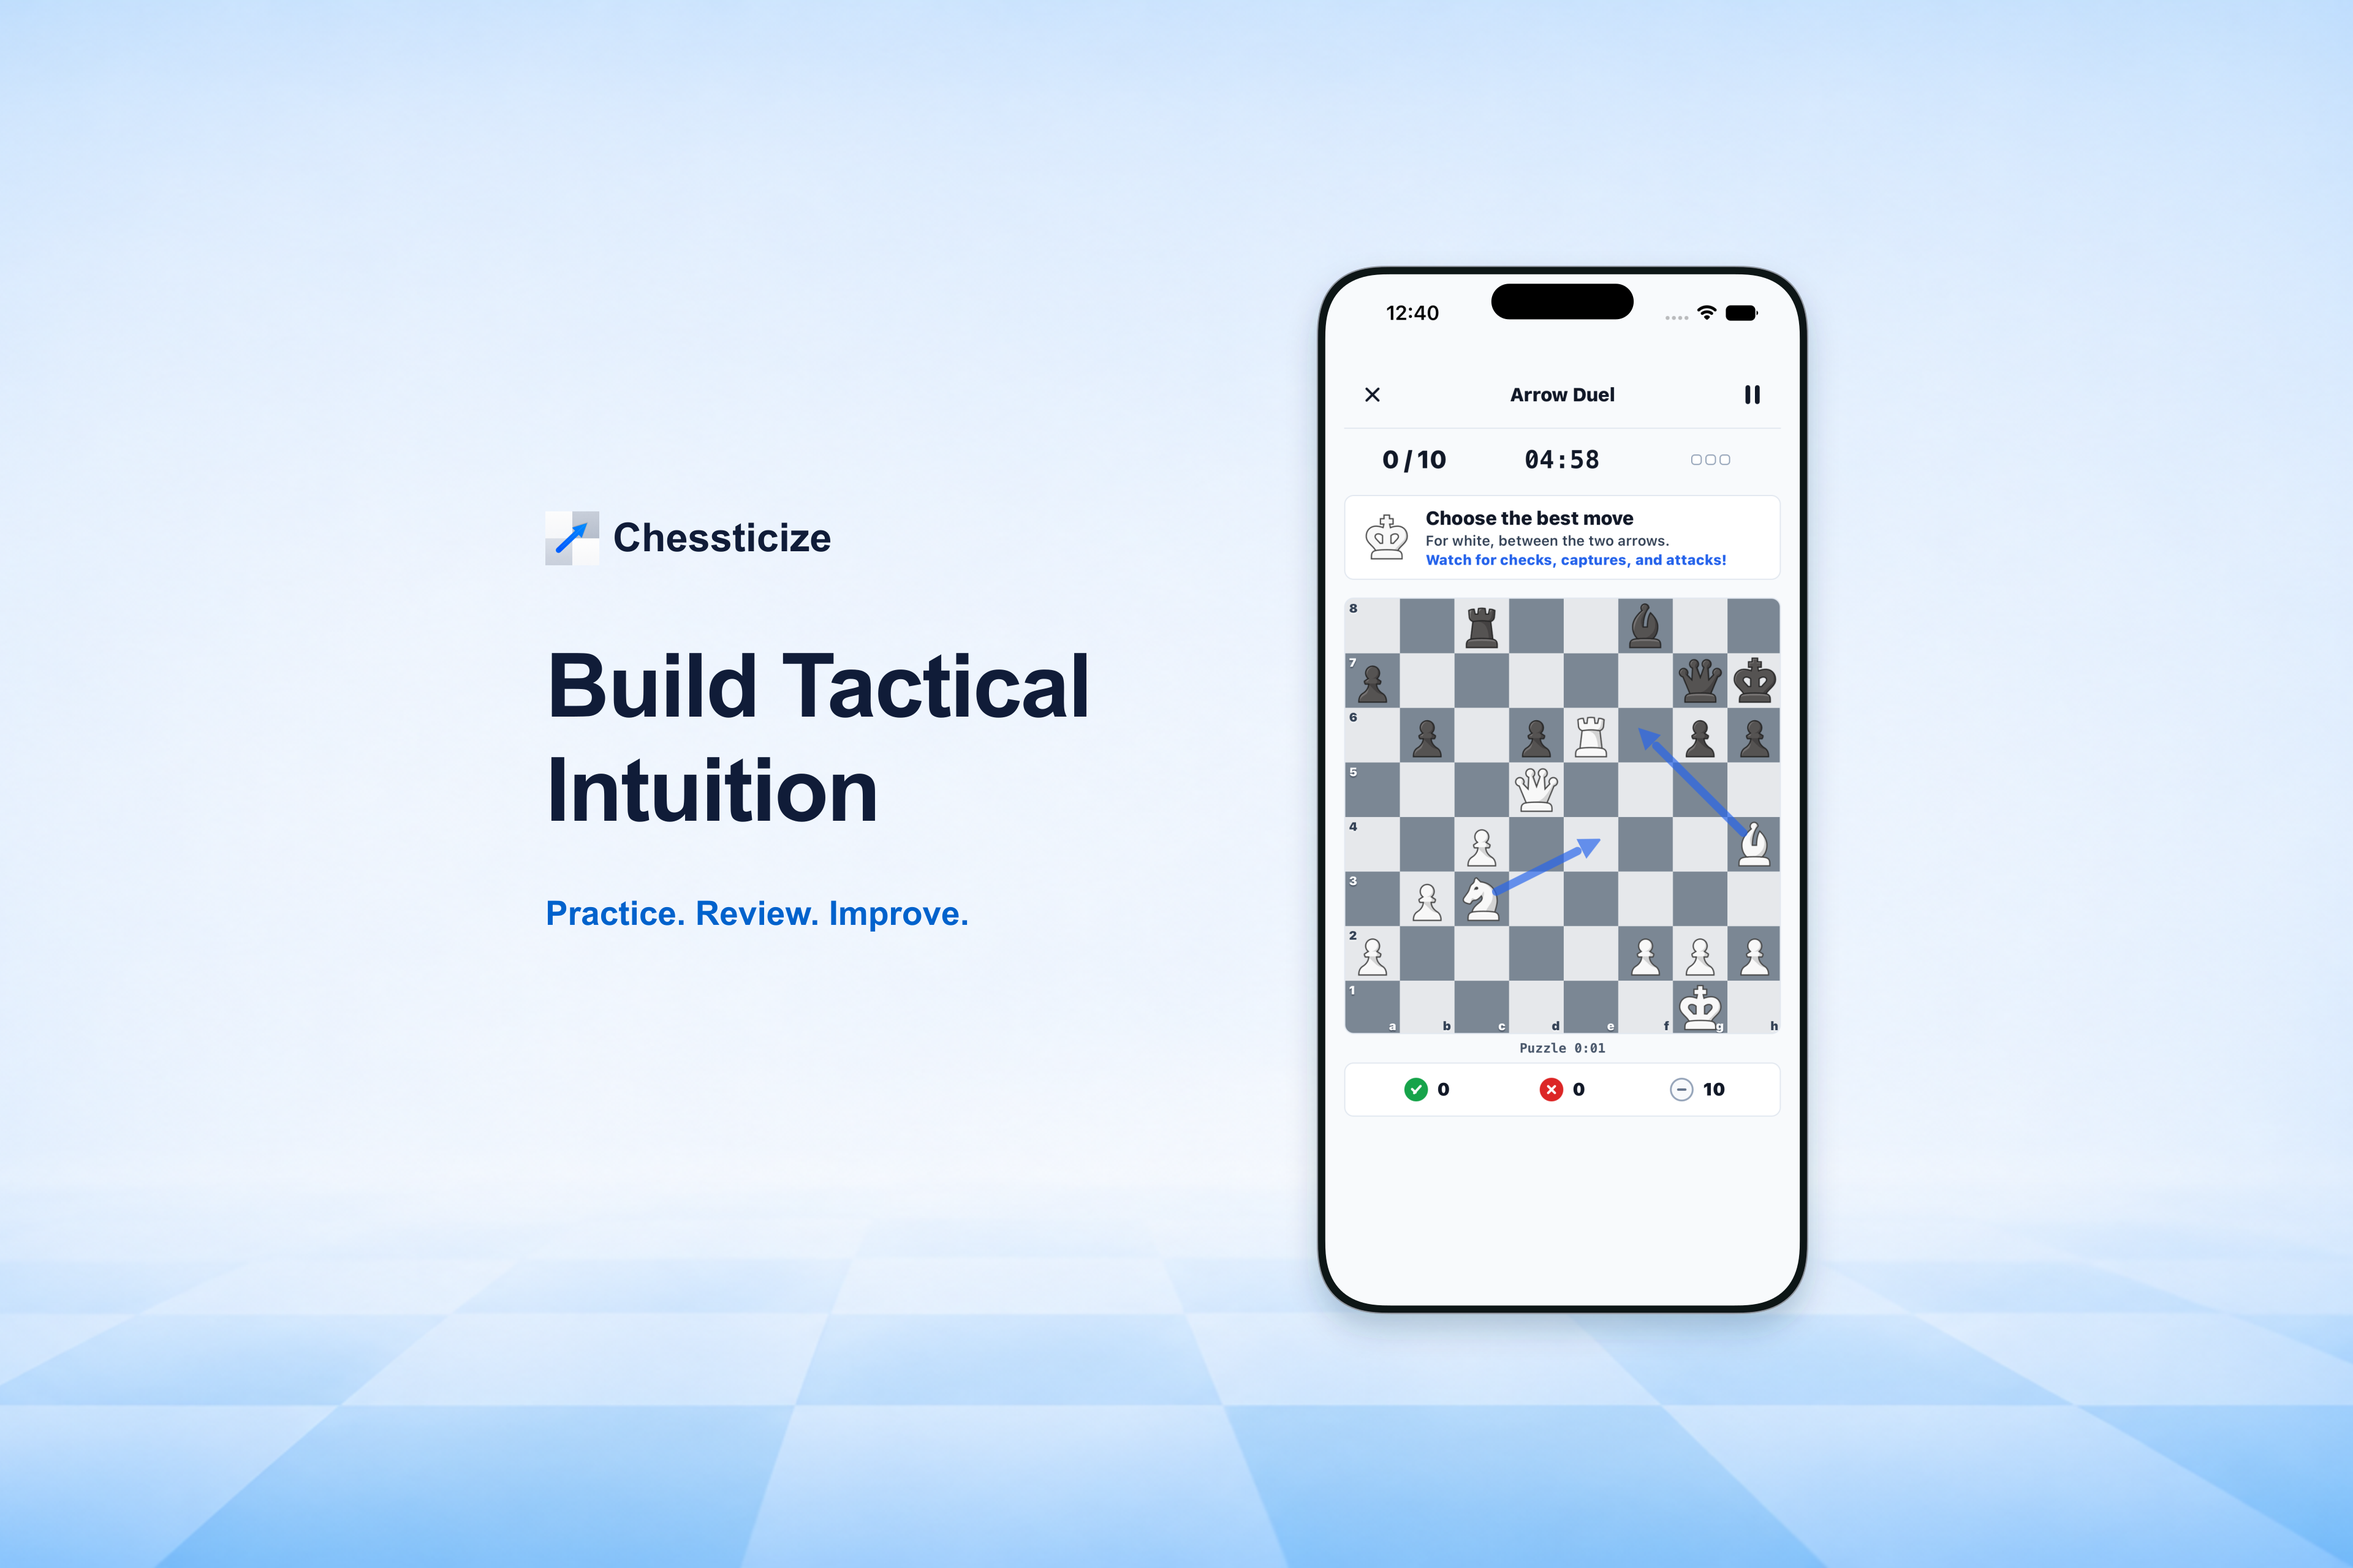
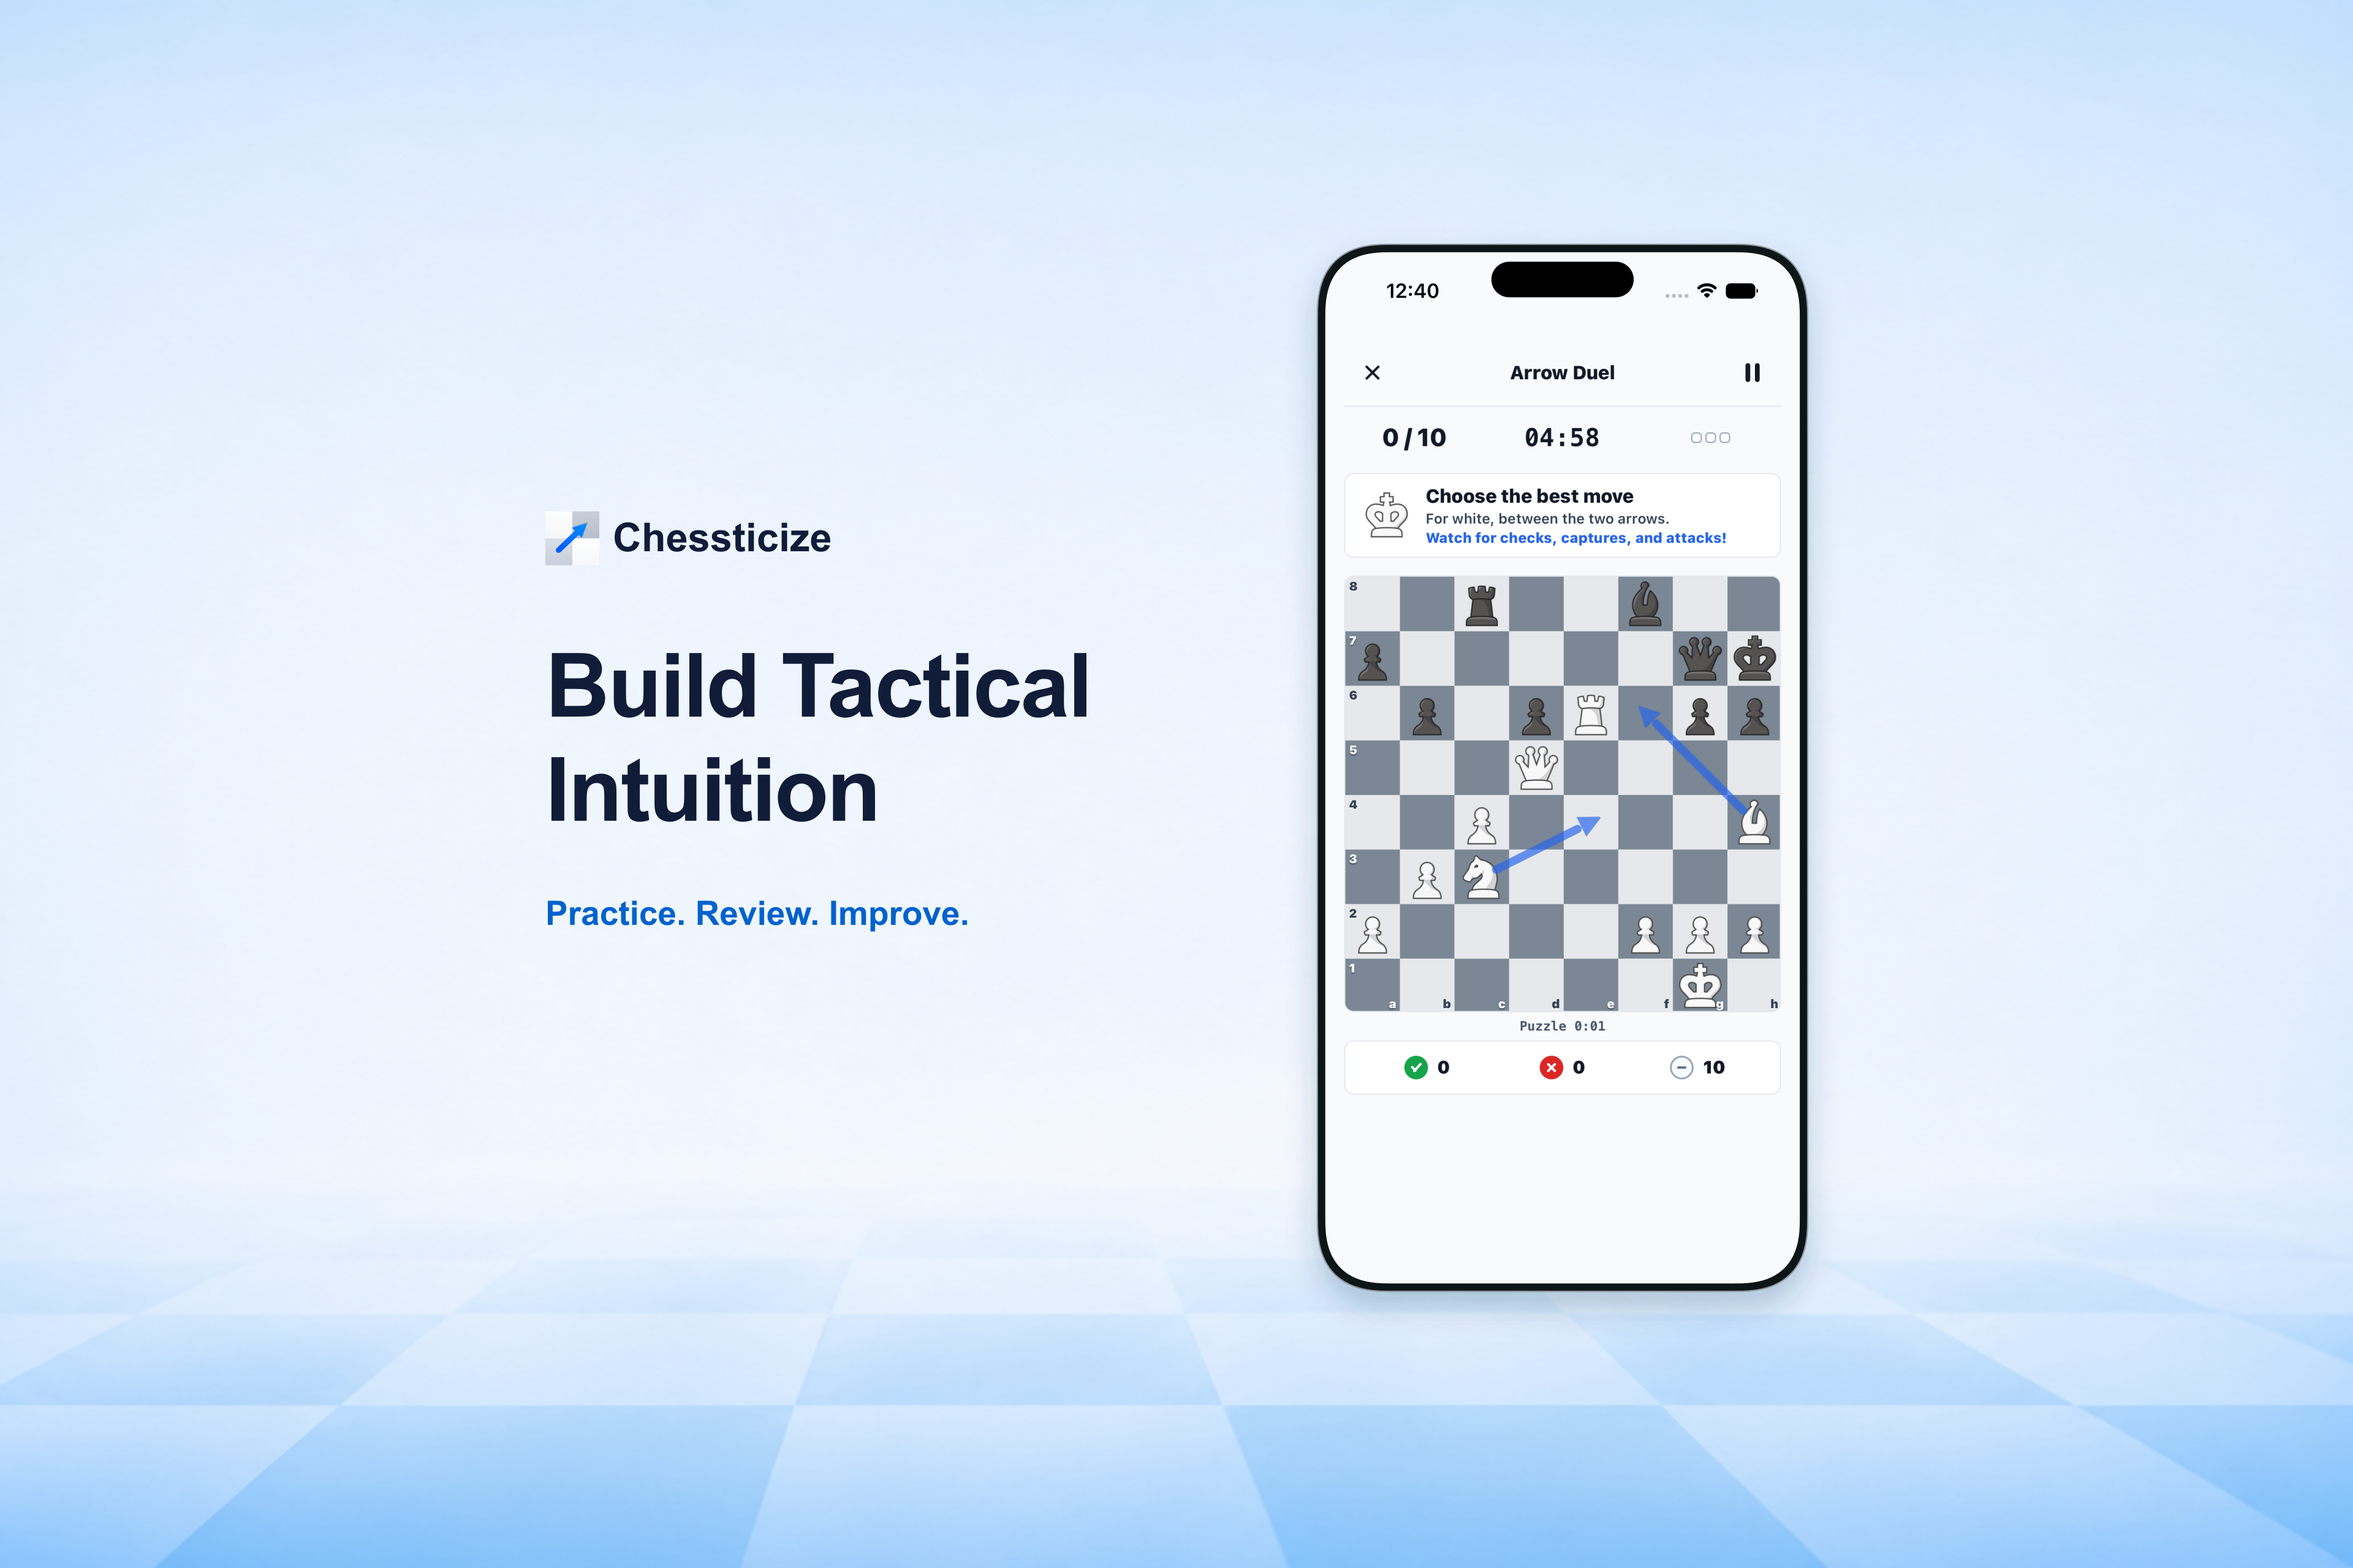
design: tighten search crop and rebalance header composition

Changed region(s): [[0.5625, 0.1562, 0.7812, 0.7188], [0.5625, 0.7812, 0.7812, 0.8438]]

diff --git a/apps/mobile/store-assets/apple/creative-v3/README.md b/apps/mobile/store-assets/apple/creative-v3/README.md
@@ -43,11 +43,17 @@ used `gpt-image-2.6-sunburst`, quality `high`. The selected plate and prompt are
 retained under `source/`. Typography, the existing app icon, the handset frame,
 screen mask and Dynamic Island are deterministic SVG/Sharp composition.
 Handset and screen use matching continuous-curvature corners and a thin bezel.
+The Header uses a larger handset and headline, plus a separately refined
+Image 2.6 studio plate with the peripheral rook and knight brought inward to
+occupy the horizontal wings. Search retains its accepted background and copy.
 
 The complete phone is visible in both full compositions. Essential copy and
 the **complete 8 × 8 board with both arrows** remain inside the conservative
 Apple safe rectangles. Secondary handset chrome and UI outside the board may
-be cropped. The crop proofs reuse the official template geometry documented
+be cropped. The Search Results handset is raised 36 pixels so the clipped
+progress-counter slash no longer leaves a stray black mark at the safe-area
+top edge; its complete prompt card and board remain visible. The crop proofs
+reuse the official template geometry documented
 in [v1](../creative-v1/README.md); they are not ASC device previews.
 
 Regenerate from the repository root with installed dependencies:
